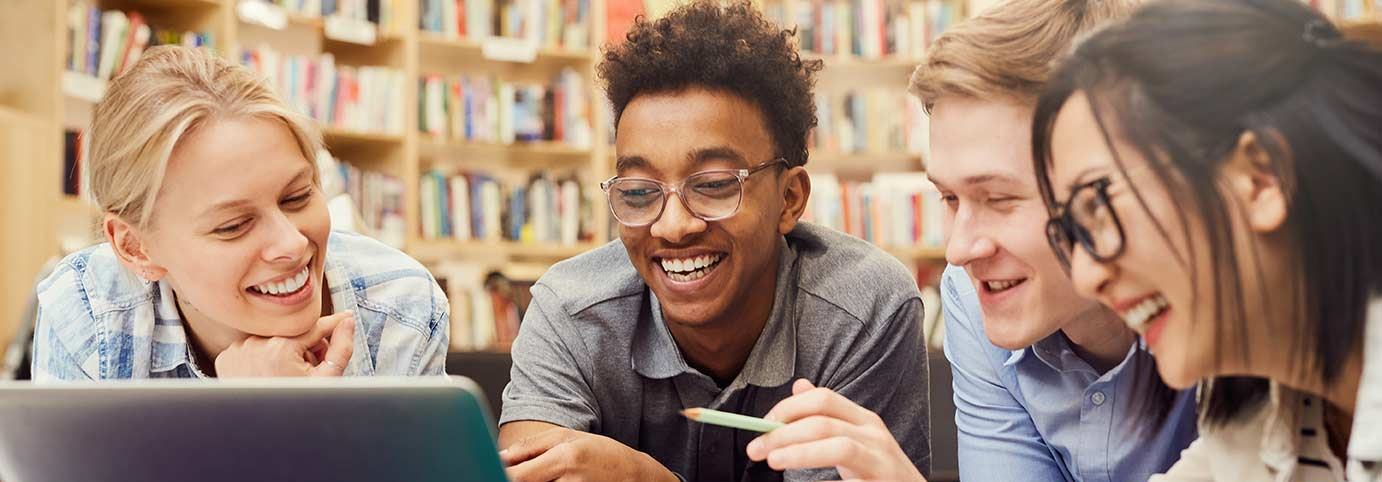
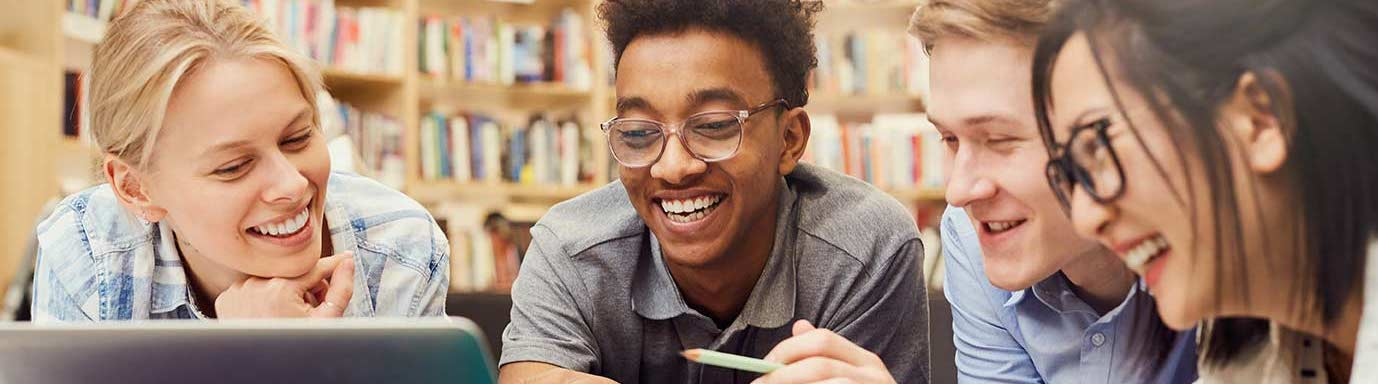
fixed img tag & changed some padding

diff --git a/css/style.css b/css/style.css
@@ -525,7 +525,7 @@ padding: 0;
 margin-bottom: 20px;
 }
 .padding{
-padding-top:20rem;
+padding-top:25rem;
 }
 
 /* about__section__hx */
@@ -651,7 +651,7 @@ padding: 0;
 margin-bottom: 20px;
 }
 .padding{
-padding-top:25rem;
+padding-top:20rem;
 }
 
 		}
@@ -1231,7 +1231,7 @@ padding-top:25rem;
 		margin-bottom: 20px;
 	}
 	.padding{
-		padding-top:20rem;
+		padding-top:23rem;
 	}
 	
 	}
@@ -1383,12 +1383,120 @@ padding-top:25rem;
 			margin-bottom: 20px;
 		}
 		.padding{
-			padding-top:20rem;
+			padding-top:23rem;
 		}
 			
 	}
 
-	
+	@media screen and (min-width: 960px){
+
+		html{
+
+			font-size: 100%;
+			margin: 0 10%;
+			background-color: #151e3f;
+
+		}
+		.masthead{
+
+			position: relative;
+			text-align: center;
+			color: white;
+
+		}
+
+		.logo{
+
+			position: absolute;
+			top: 10px;
+			left: 140px;
+			
+		}
+		/*tabs*/
+		.tabs dd, .tabs li {
+			display: block;
+			float: left;
+			padding: 0;
+			margin: 0;
+		}
+		dd {
+			display: block;
+			margin-inline-start: 40px;
+		}
+
+.tabs.pill dd, .tabs.pill li {
+    margin-right: 10px;
+}
+		dl.tabs.pill>dd.active a, dl.tabs.pill>dd.active:hover a {
+			border: 1px solid #fff;
+			color: white;
+			background: #c22;
+			-webkit-box-shadow: rgb(0 0 0 / 30%) 0 1px 3px 0 inset;
+			-moz-box-shadow: rgba(0,0,0,0.3) 0 1px 3px 0 inset;
+			box-shadow: rgb(0 0 0 / 30%) 0 1px 3px 0 inset;
+			font-weight: normal;
+		}
+
+		.tabs.pill dd.active a, .tabs.pill li.active a {
+			background-color: #c22;
+			border: none;
+			color: #fff;
+	}
+
+	dl.tabs.pill>dd a {
+		height: auto;
+		-webkit-box-shadow: rgb(0 0 0 / 15%) 0 1px 2px 0;
+		-moz-box-shadow: rgba(0,0,0,0.15) 0 1px 2px 0;
+		box-shadow: rgb(0 0 0 / 15%) 0 1px 2px 0;
+		border: 1px solid #ccc;
+	}
+	.tabs.pill dd a, .tabs.pill li a {
+		-webkit-border-radius: 1000px;
+		-moz-border-radius: 1000px;
+		-ms-border-radius: 1000px;
+		-o-border-radius: 1000px;
+		border-radius: 1000px;
+		background: #e6e6e6;
+		height: 26px;
+		line-height: 26px;
+		color: #666;
+	}
+
+	.tabs dd.active a, .tabs li.active a {
+		cursor: default;
+		color: gray;
+		background: #fff;
+		border-left: 1px solid #e6e6e6;
+		border-right: 1px solid #e6e6e6;
+		font-weight: bold;
+	}
+
+	.tabs dd a, .tabs li a {
+		color: #b3b3b3;
+		display: block;
+		font-size: 14px;
+		height: 40px;
+		line-height: 40px;
+		padding: 0px 23.8px;
+	}
+
+	*, *:before, *:after {
+		-webkit-box-sizing: border-box;
+		-moz-box-sizing: border-box;
+		box-sizing: border-box;
+	}
+	.tabs {
+		list-style: none;
+		border-bottom: solid 1px #e6e6e6;
+		display: block;
+		height: 40px;
+		padding: 0;
+		margin-bottom: 20px;
+	}
+	.padding{
+		padding-top:19rem;
+	}
+}
 
 	
 	@media screen and (min-width: 1068px){
@@ -1497,6 +1605,6 @@ padding-top:25rem;
 		margin-bottom: 20px;
 	}
 	.padding{
-		padding-top:20rem;
+		padding-top:19rem;
 	}
 }

diff --git a/about.html b/about.html
@@ -16,7 +16,7 @@
 
 <body>
   <header id="masthead">   
-    <img src="img/students copy.jpg" alt="Welcome to the library" class="hero">
+    <img src="img/students.jpg" alt="Welcome to the library" class="hero">
     <div class="masthead__flex-container">    
       <a href="index.html">
       <img src="img/logo.png" alt="library logo" class="logo">

diff --git a/index.html b/index.html
@@ -16,7 +16,7 @@
 
 <body>
   <header id="masthead">   
-    <img src="img/students copy.jpg" alt="Welcome to the library" class="hero">
+    <img src="img/students.jpg" alt="Welcome to the library" class="hero">
     <div class="masthead__flex-container">    
       <a href="index.html">
       <img src="img/logo.png" alt="library logo" class="logo">

diff --git a/programs.html b/programs.html
@@ -16,7 +16,7 @@
 
 <body>
   <header id="masthead">   
-    <img src="img/students copy.jpg" alt="Welcome to the library" class="hero">
+    <img src="img/students.jpg" alt="Welcome to the library" class="hero">
     <div class="masthead__flex-container">    
       <a href="index.html">
       <img src="img/logo.png" alt="library logo" class="logo">
